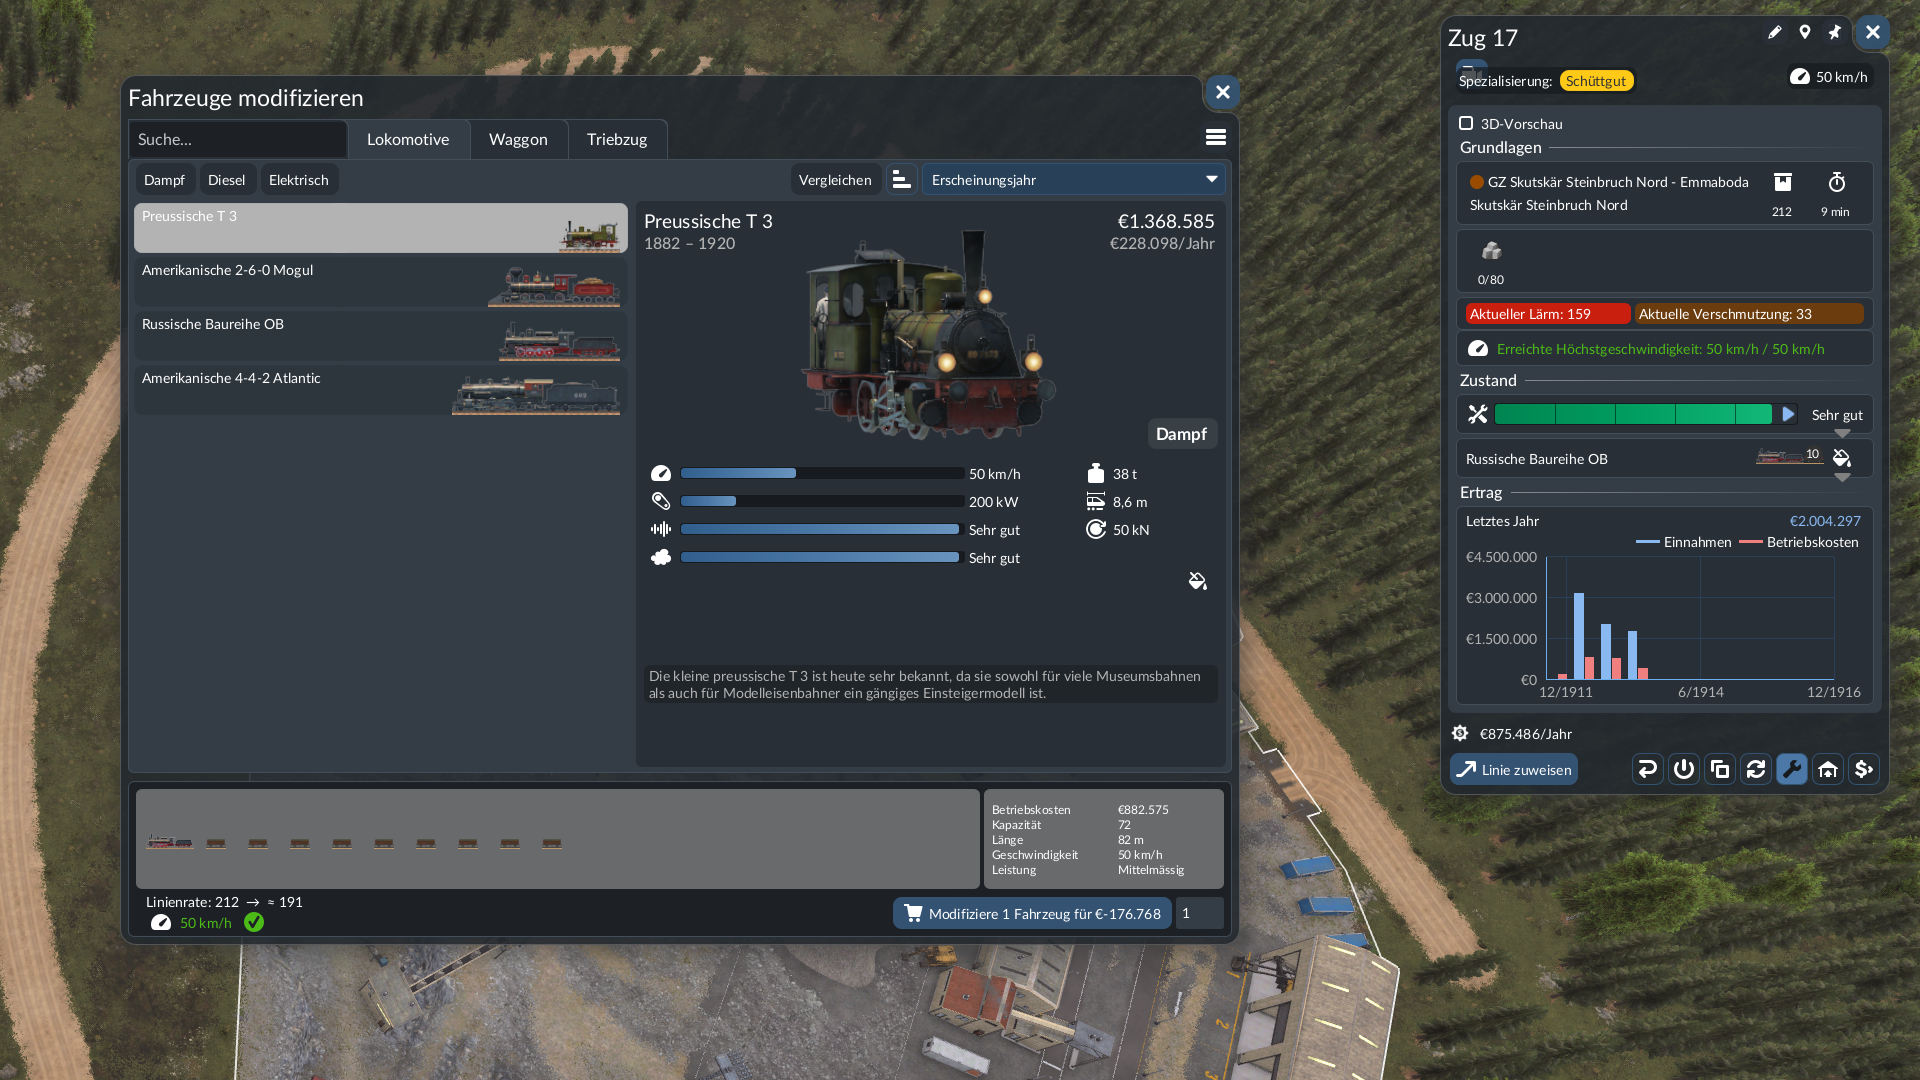
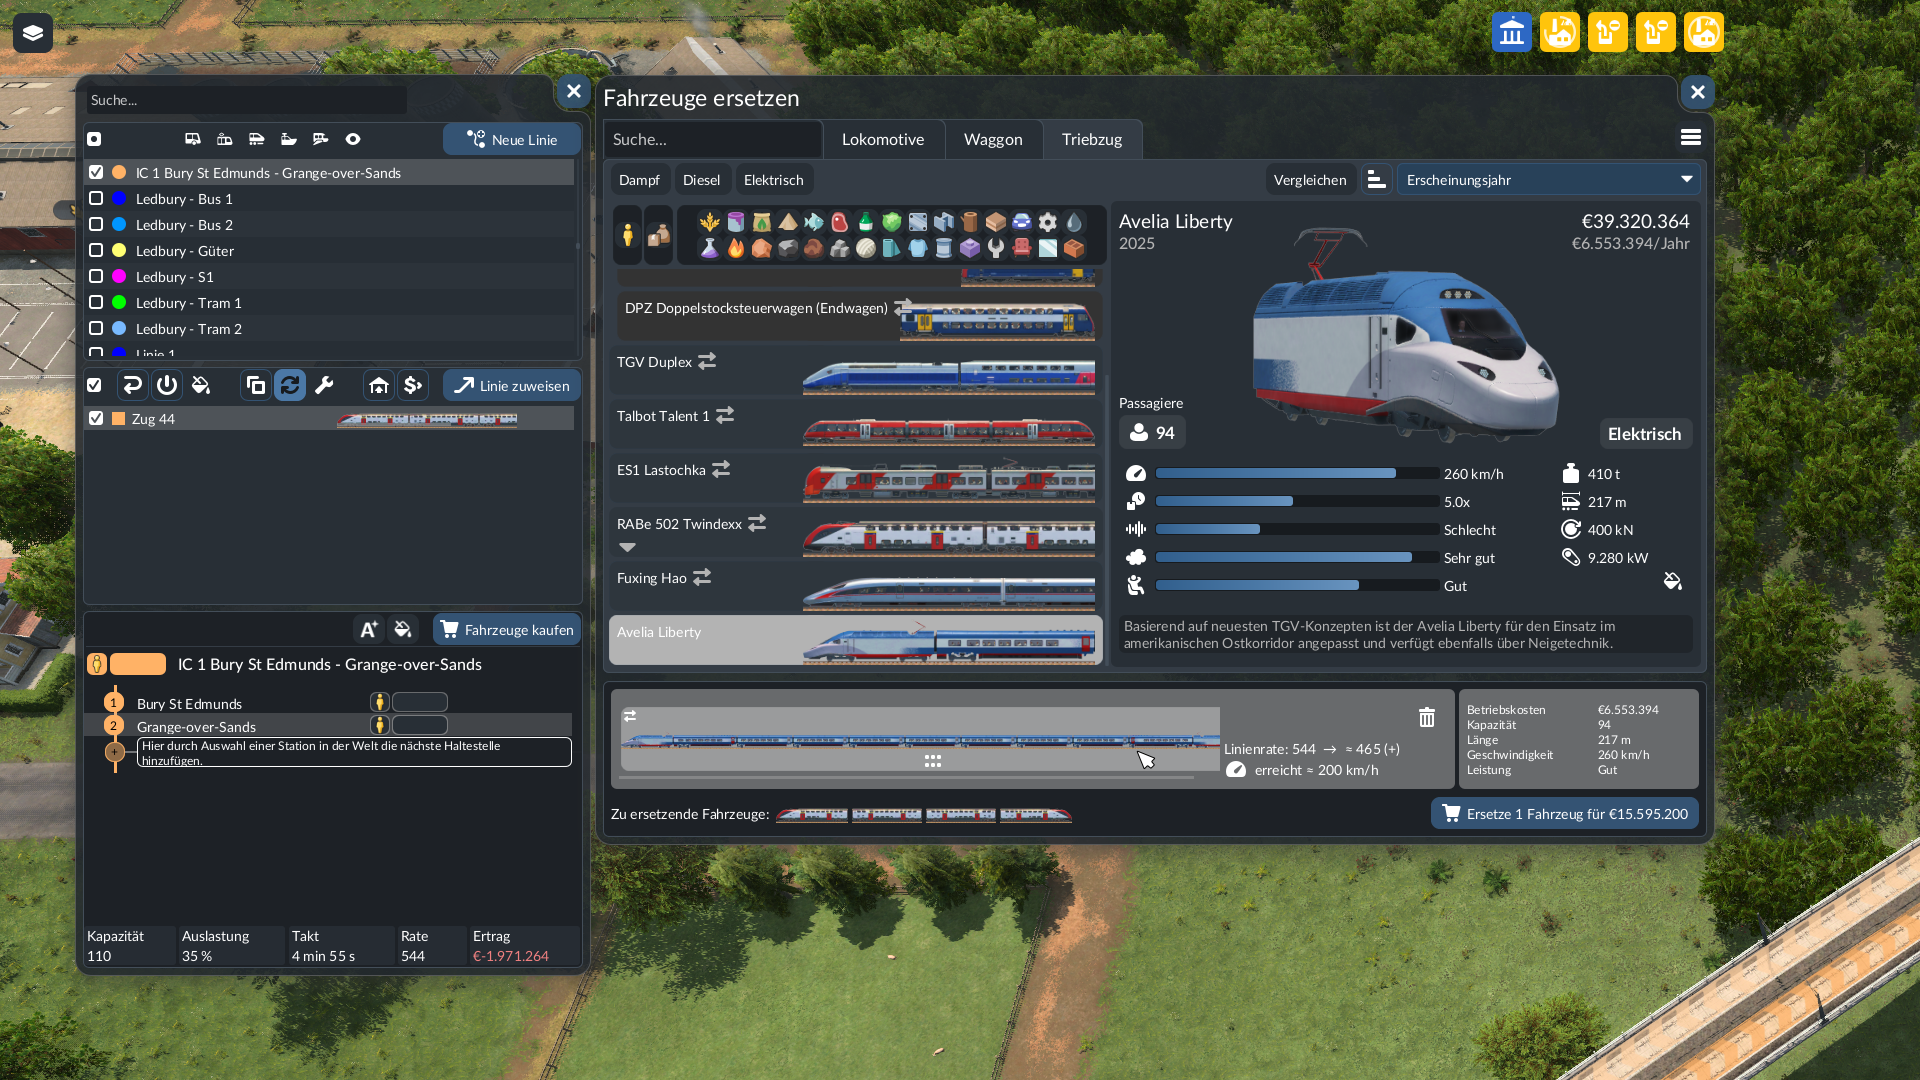
docs: add changelog, update description and screenshots for 0.17.0
CHANGELOG.md (English, one entry per uploaded version, rendered into the
English mod description by changelog_to_modinfo.py). The description is
HTML now, with a link to Top Speed Reached. Gallery: the old modify shot
is replaced by climb and catenary screenshots.

Version 0.17.0, revision 9 (uploaded).

diff --git a/CHANGELOG.md b/CHANGELOG.md
@@ -1,0 +1,54 @@
+# Changelog
+
+## 0.17.0 (2026-10-18)
+
+- Climbs: on sections the line's vehicles have driven, the store simulates the cart's consist over
+  the real track heights and appends the slowest speed to the speed row, e.g.
+  "Gradient 12 %: ≈ 18 km/h" (tooltip: every affected section).
+- Catenary: warns when the consist needs catenary (electric engines) and a known section has none,
+  e.g. "no catenary (1 of 3 sections, 2 not known yet)" (tooltip: missing metres and where they start).
+- Reachable speed: the weight now uses the game's cargo weights (goods 1.0, passengers 1/6 of the
+  max payload), which brings the shown speed of passenger trains closer to what they drive.
+
+## 0.16.1 (2026-10-16)
+
+- Opening the store or a window re-reads the line's track, so a track upgrade shows within seconds
+  instead of up to 5 minutes.
+
+## 0.16.0 (2026-10-16)
+
+- Reachable speed uses the real track length and speed limit of the sections driven since loading
+  (shared with Top Speed Reached), the straight-line distance only for the others.
+
+## 0.15.2 (2026-10-11)
+
+- Performance: the cart text and the line's reference speed are cached; replacing many vehicles at
+  once no longer drops the frame rate.
+
+## 0.15.1 (2026-10-11)
+
+- Replace mode: the preview moves into the cart entry, because the bottom bar is already full
+  there (works together with Better Vehicle Stats).
+
+## 0.15.0 (2026-10-11)
+
+- Reachable speed between the stops of the line for land vehicles (mod parameter, on by default):
+  "reaches ≈ X km/h", or a green check mark when the top speed is reached.
+
+## 0.14.0 (2026-10-09)
+
+- Optional rough estimate for lines without vehicles (mod parameter): the round trip is modelled
+  from the straight-line distance, the stops and the loading times, calibrated on your other lines.
+
+## 0.12.6 (2026-10-07)
+
+- Fix: correct recalculation when the new vehicle does not differ from the current one.
+
+## 0.12.5 (2026-10-07)
+
+- Improved calculation; a (+)/(-) indicator shows when the new vehicle is faster or slower than the
+  line's current ones.
+
+## 0.11.0 (2026-10-04)
+
+- First release: estimated line rate and frequency when vehicles are bought, modified or replaced.
